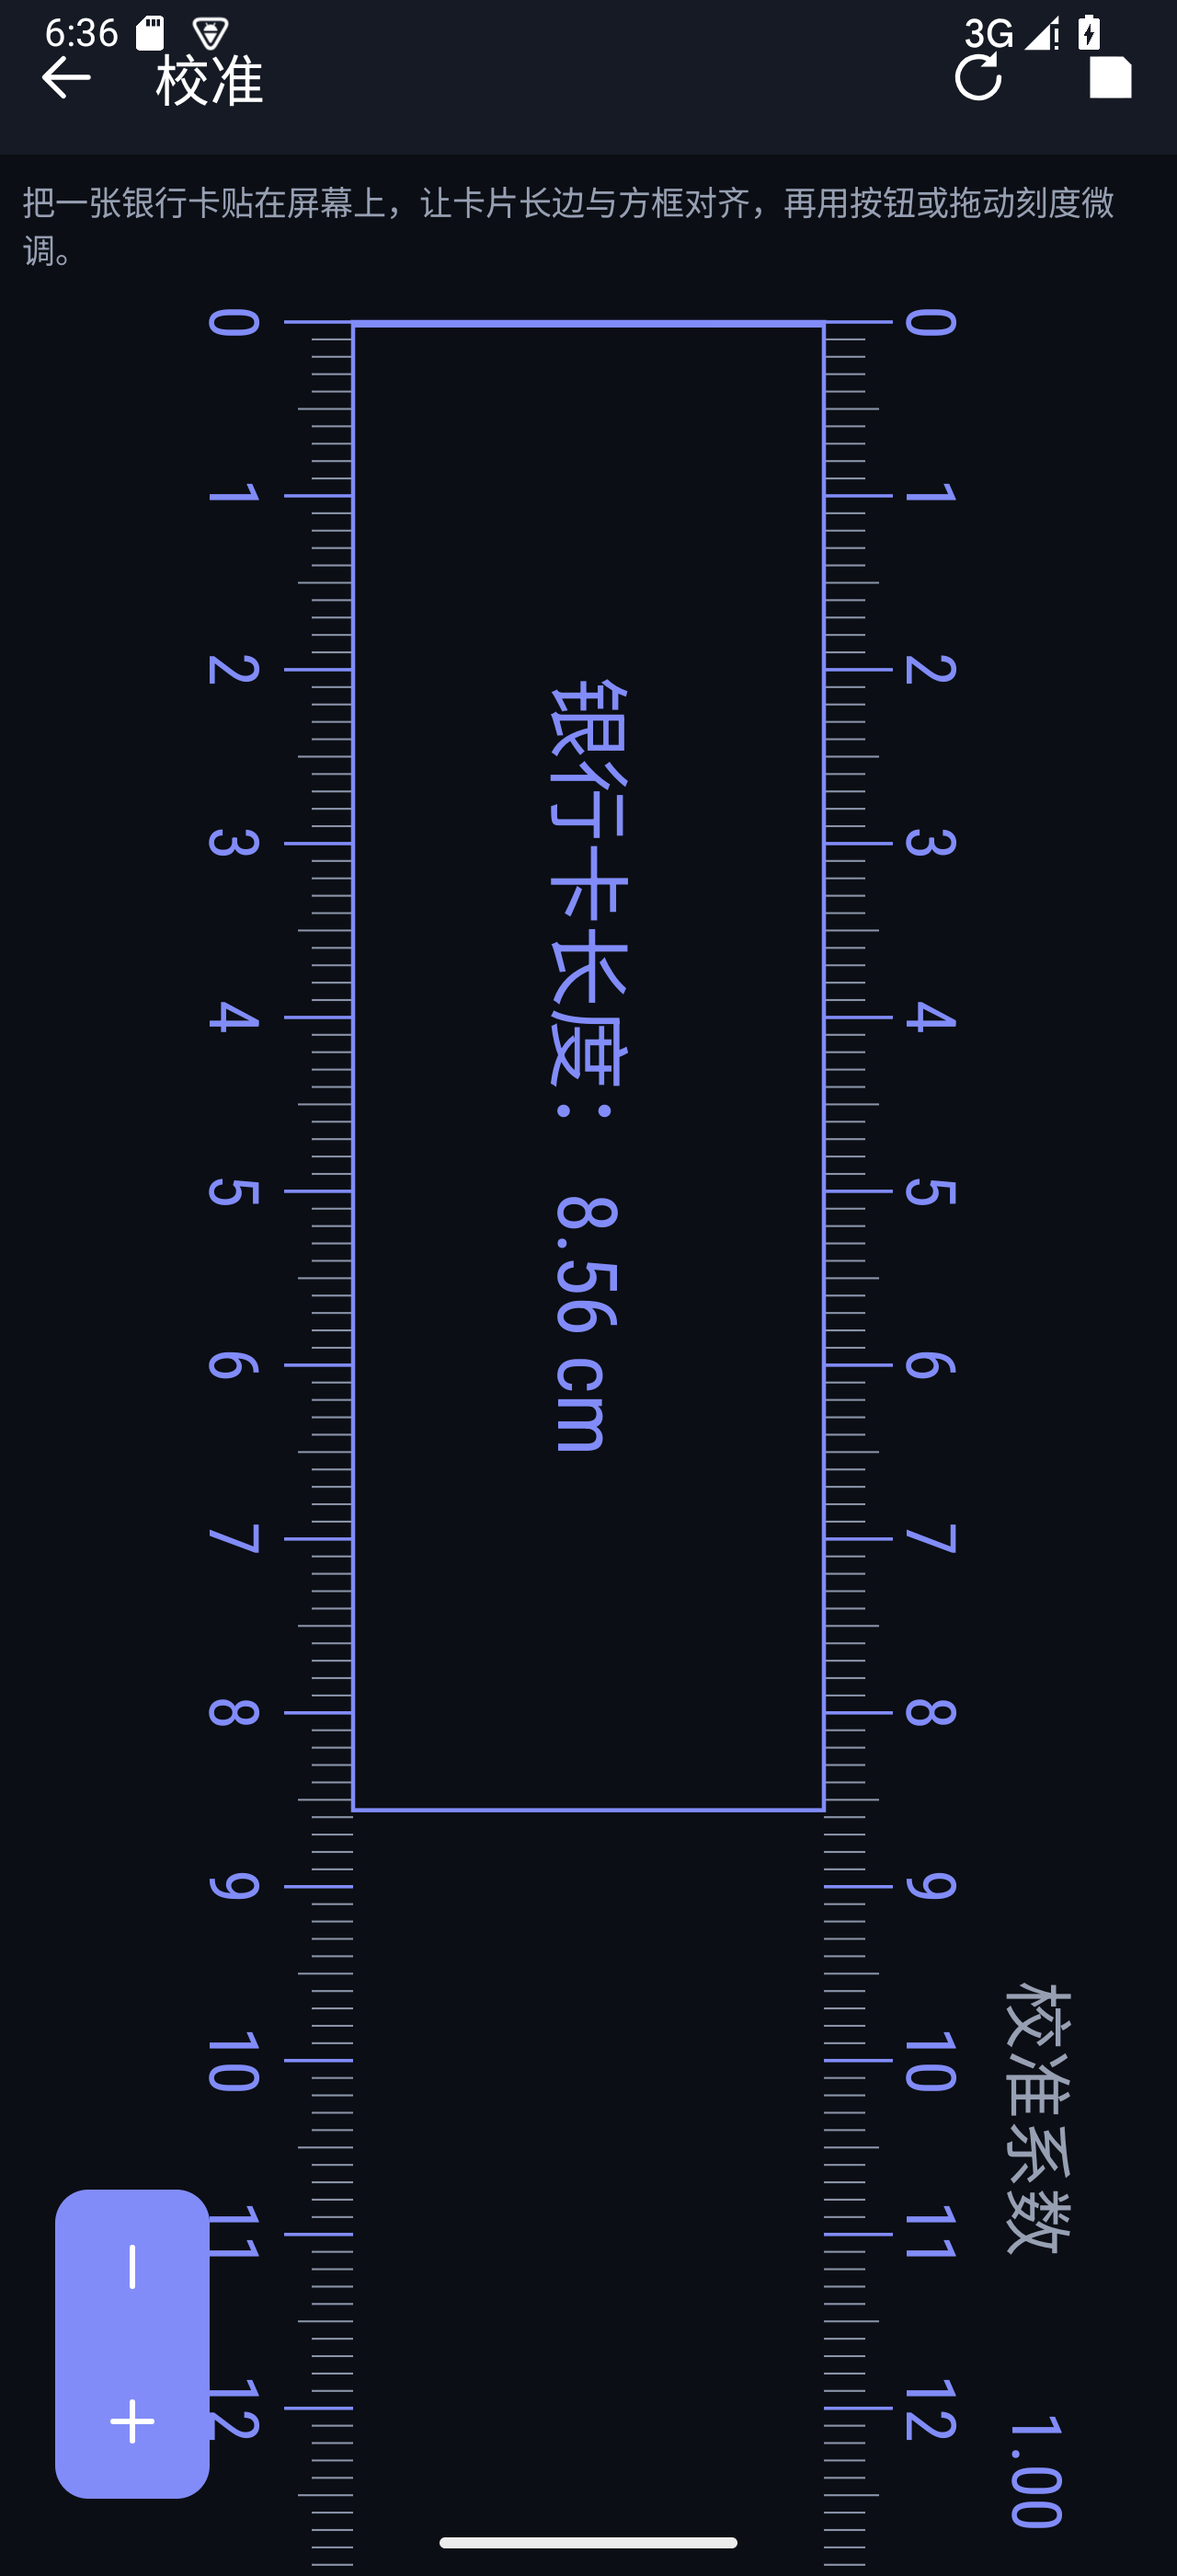
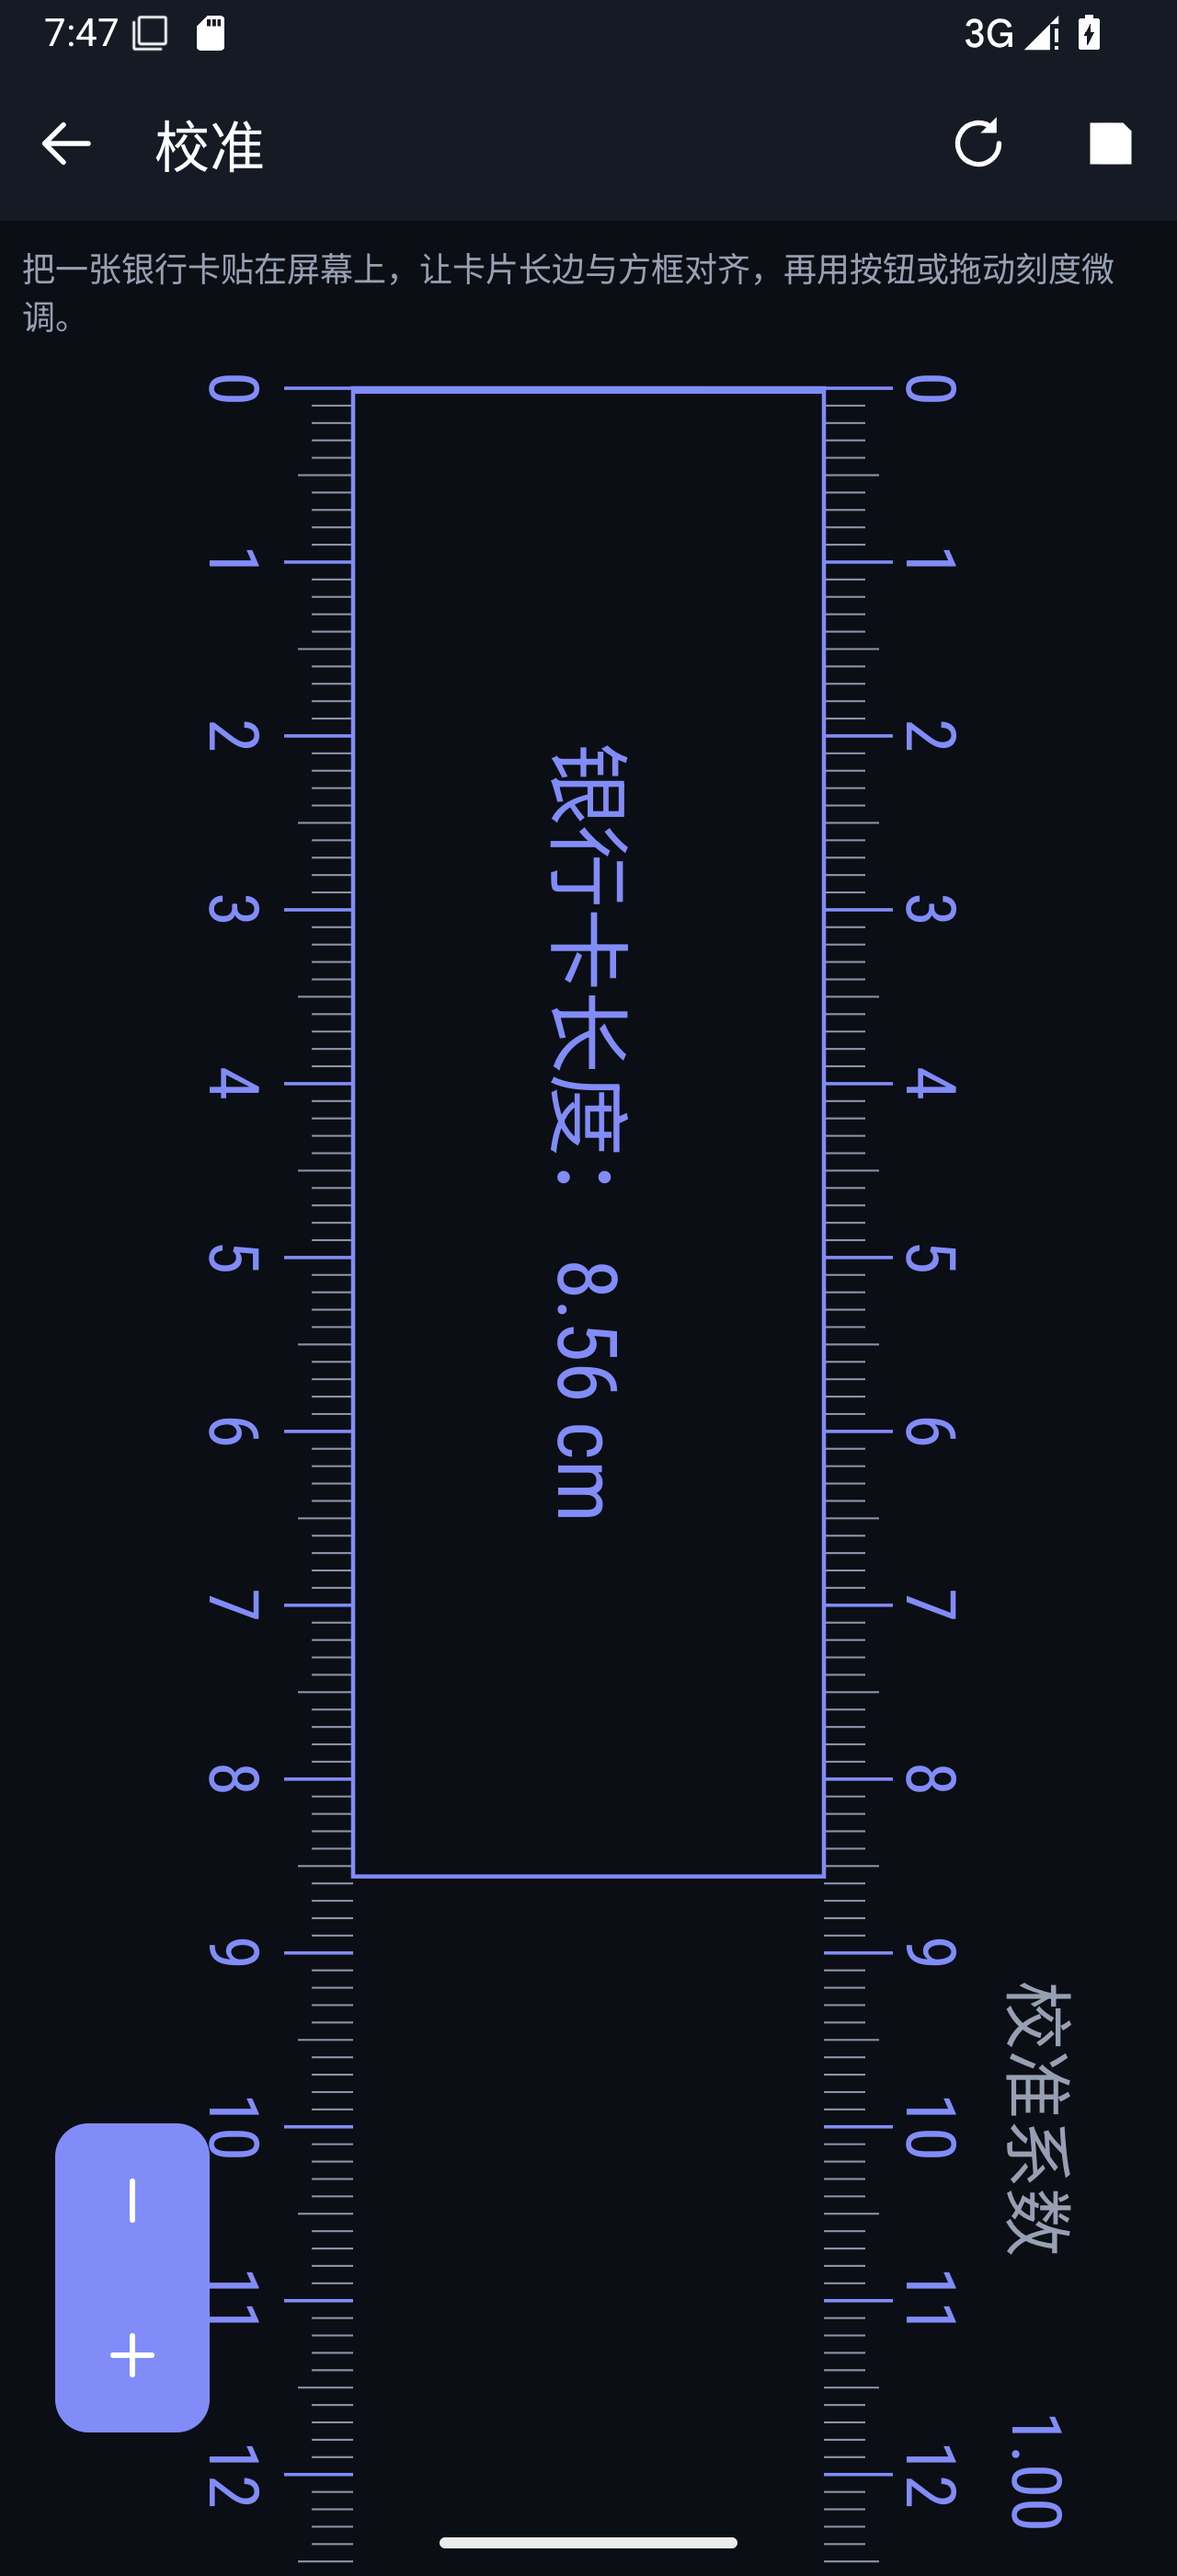
Keep the settings style app bar clear of the status bar on Android 15
Android 15 draws every app edge to edge, so the app bar ended up underneath
the status bar and its buttons were unreachable. The three screens that use
the app bar now opt into edge to edge before the content view exists and turn
the reported insets into padding, so the app bar covers the status bar area
and bottom anchored content stays above the navigation bar.

diff --git a/app/src/main/java/org/openruler/app/core/EdgeToEdge.kt b/app/src/main/java/org/openruler/app/core/EdgeToEdge.kt
@@ -1,0 +1,69 @@
+package org.openruler.app.core
+
+import android.app.Activity
+import android.os.Build
+import android.view.View
+import android.view.ViewGroup
+import android.view.WindowInsets
+
+/**
+ * Android 15 draws every app edge to edge, so the platform no longer keeps the app bar
+ * clear of the status bar. The measuring screens want the full canvas and hide the bars
+ * themselves; the settings style screens want the system bar heights back as padding.
+ *
+ * [enable] opts the window in and has to run before the content view exists; [fitSystemBars]
+ * turns the reported insets into padding. The app bar grows by the status bar height and
+ * pushes its content down, so its background covers the status bar area and the buttons stay
+ * reachable. Bottom anchored content is pushed above the navigation bar, by its bottom margin
+ * when it has one, by padding if not.
+ *
+ * Releases before API 30 still inset the window themselves, so there is nothing to do.
+ */
+object EdgeToEdge {
+
+    fun enable(activity: Activity) {
+        if (Build.VERSION.SDK_INT < Build.VERSION_CODES.R) return
+        activity.window.setDecorFitsSystemWindows(false)
+    }
+
+    fun fitSystemBars(activity: Activity, appBar: View, bottomContent: View? = null) {
+        if (Build.VERSION.SDK_INT < Build.VERSION_CODES.R) return
+
+        enable(activity)
+
+        // Base values, captured once: this listener runs again whenever the bars change
+        // size, and every pass has to start from the layout's own numbers.
+        val appBarHeight = appBar.layoutParams.height
+        val paddingLeft = appBar.paddingLeft
+        val paddingTop = appBar.paddingTop
+        val paddingRight = appBar.paddingRight
+        val paddingBottom = appBar.paddingBottom
+        val bottomPadding = bottomContent?.paddingBottom ?: 0
+        val bottomMargin = (bottomContent?.layoutParams as? ViewGroup.MarginLayoutParams)?.bottomMargin
+
+        appBar.setOnApplyWindowInsetsListener { view, insets ->
+            val bars = insets.getInsets(WindowInsets.Type.systemBars())
+
+            view.layoutParams = view.layoutParams.apply { height = appBarHeight + bars.top }
+            view.setPadding(paddingLeft, paddingTop + bars.top, paddingRight, paddingBottom)
+
+            bottomContent?.let { content ->
+                if (bottomMargin != null) {
+                    val params = content.layoutParams as ViewGroup.MarginLayoutParams
+                    params.bottomMargin = bottomMargin + bars.bottom
+                    content.layoutParams = params
+                } else {
+                    content.setPadding(
+                        content.paddingLeft,
+                        content.paddingTop,
+                        content.paddingRight,
+                        bottomPadding + bars.bottom
+                    )
+                }
+            }
+
+            insets
+        }
+        appBar.requestApplyInsets()
+    }
+}

diff --git a/app/src/main/java/org/openruler/app/SettingsActivity.kt b/app/src/main/java/org/openruler/app/SettingsActivity.kt
@@ -12,6 +12,7 @@ import android.widget.LinearLayout
 import android.widget.Switch
 import android.widget.TextView
 import org.openruler.app.core.LengthUnit
+import org.openruler.app.core.EdgeToEdge
 import org.openruler.app.core.Locales
 import java.util.Locale
 
@@ -25,8 +26,11 @@ class SettingsActivity : BaseActivity() {
 
     override fun onCreate(savedInstanceState: Bundle?) {
         super.onCreate(savedInstanceState)
+        EdgeToEdge.enable(this)
         setContentView(R.layout.activity_settings)
         container = findViewById(R.id.settingsContainer)
+
+        EdgeToEdge.fitSystemBars(this, findViewById(R.id.appBar), container)
 
         findViewById<TextView>(R.id.appBarTitle).setText(R.string.settings)
         findViewById<ImageView>(R.id.buttonBack).apply {

diff --git a/app/src/main/java/org/openruler/app/CalibrationActivity.kt b/app/src/main/java/org/openruler/app/CalibrationActivity.kt
@@ -4,6 +4,7 @@ import android.os.Bundle
 import android.widget.ImageView
 import android.widget.TextView
 import android.widget.Toast
+import org.openruler.app.core.EdgeToEdge
 import org.openruler.app.view.CalibrationRulerView
 
 /**
@@ -16,7 +17,14 @@ class CalibrationActivity : BaseActivity() {
 
     override fun onCreate(savedInstanceState: Bundle?) {
         super.onCreate(savedInstanceState)
+        EdgeToEdge.enable(this)
         setContentView(R.layout.activity_calibration)
+
+        EdgeToEdge.fitSystemBars(
+            this,
+            findViewById(R.id.appBar),
+            findViewById(R.id.nudgeButtons)
+        )
 
         rulerView = findViewById(R.id.calibrationView)
         rulerView.palette = palette

diff --git a/app/src/main/java/org/openruler/app/AboutActivity.kt b/app/src/main/java/org/openruler/app/AboutActivity.kt
@@ -8,13 +8,17 @@ import android.widget.ImageView
 import android.widget.TextView
 import android.content.res.ColorStateList
 import android.graphics.Color
+import org.openruler.app.core.EdgeToEdge
 import org.openruler.app.core.withAlpha
 
 class AboutActivity : BaseActivity() {
 
     override fun onCreate(savedInstanceState: Bundle?) {
         super.onCreate(savedInstanceState)
+        EdgeToEdge.enable(this)
         setContentView(R.layout.activity_about)
+
+        EdgeToEdge.fitSystemBars(this, findViewById(R.id.appBar), findViewById(R.id.aboutContent))
 
         findViewById<TextView>(R.id.appBarTitle).setText(R.string.information)
         findViewById<ImageView>(R.id.buttonBack).apply {
